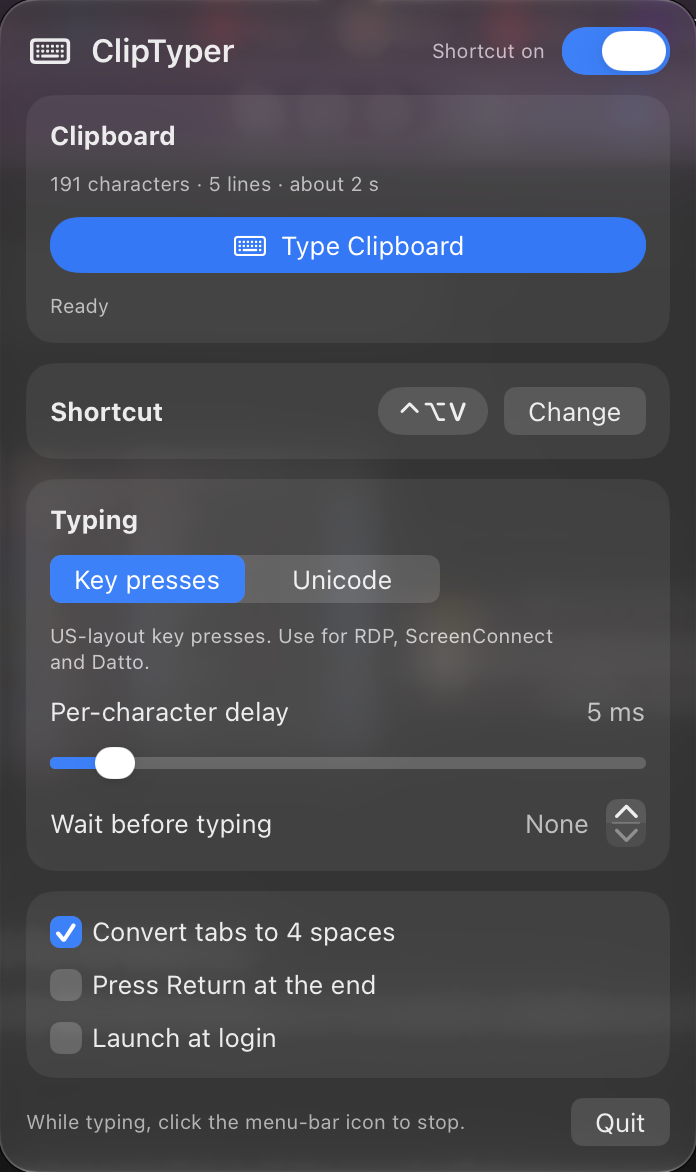
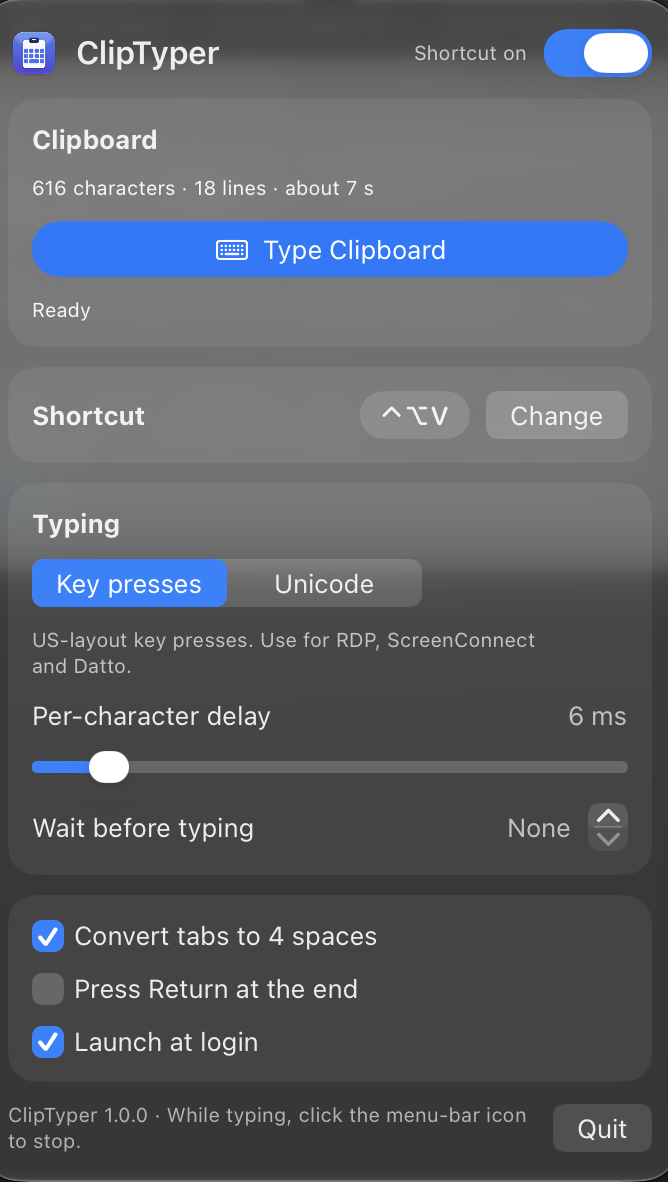
Update panel screenshot to the 1.0.0 build
Claude-Session: https://claude.ai/code/session_011yurmgRVJa2FN6NFzmF3pK

diff --git a/README.md b/README.md
@@ -10,7 +10,7 @@
 </p>
 
 <p align="center">
-  <img src="docs/panel.png" width="348" alt="ClipTyper panel">
+  <img src="docs/panel.png" width="334" alt="ClipTyper panel">
 </p>
 
 ## What it is for
